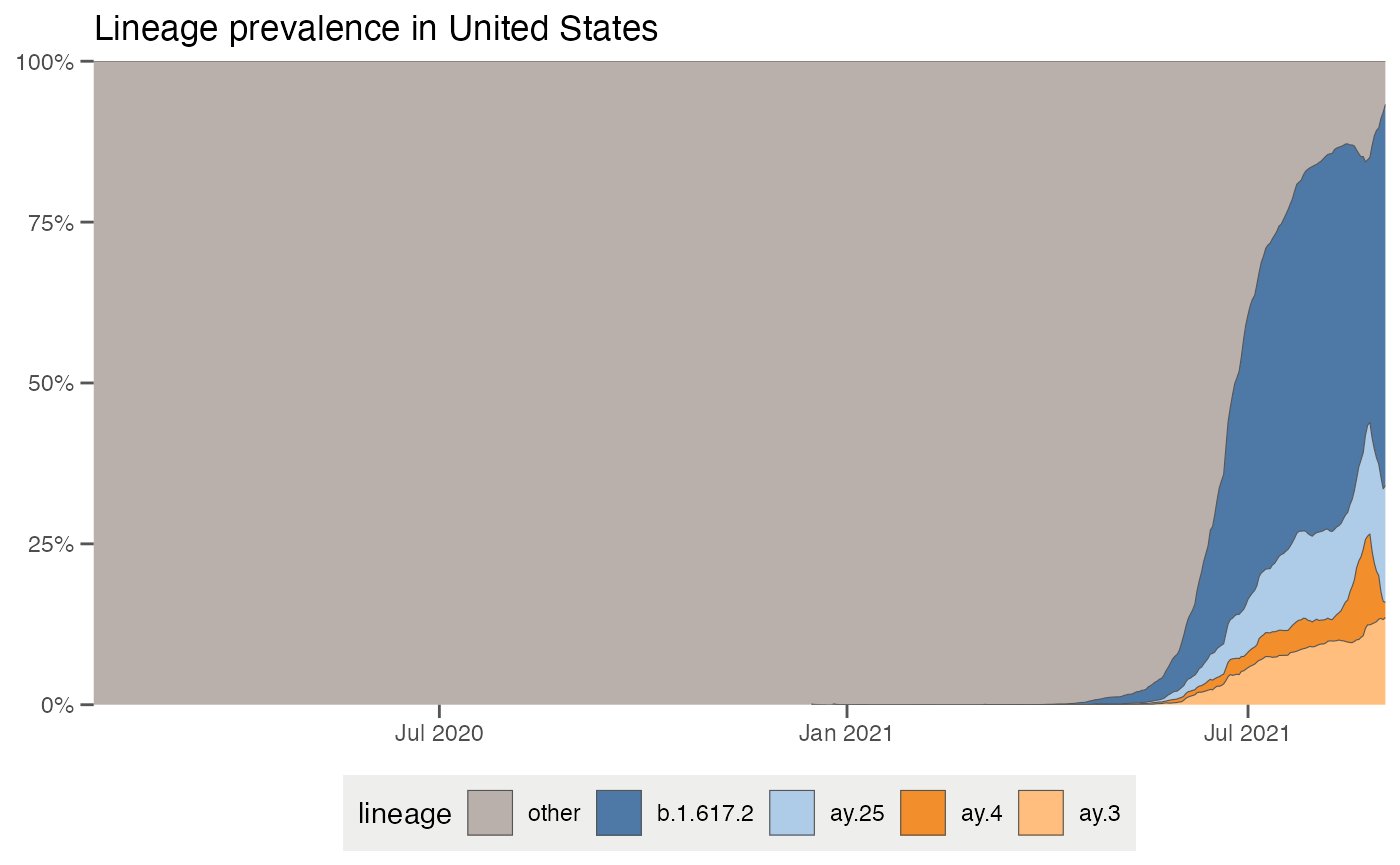
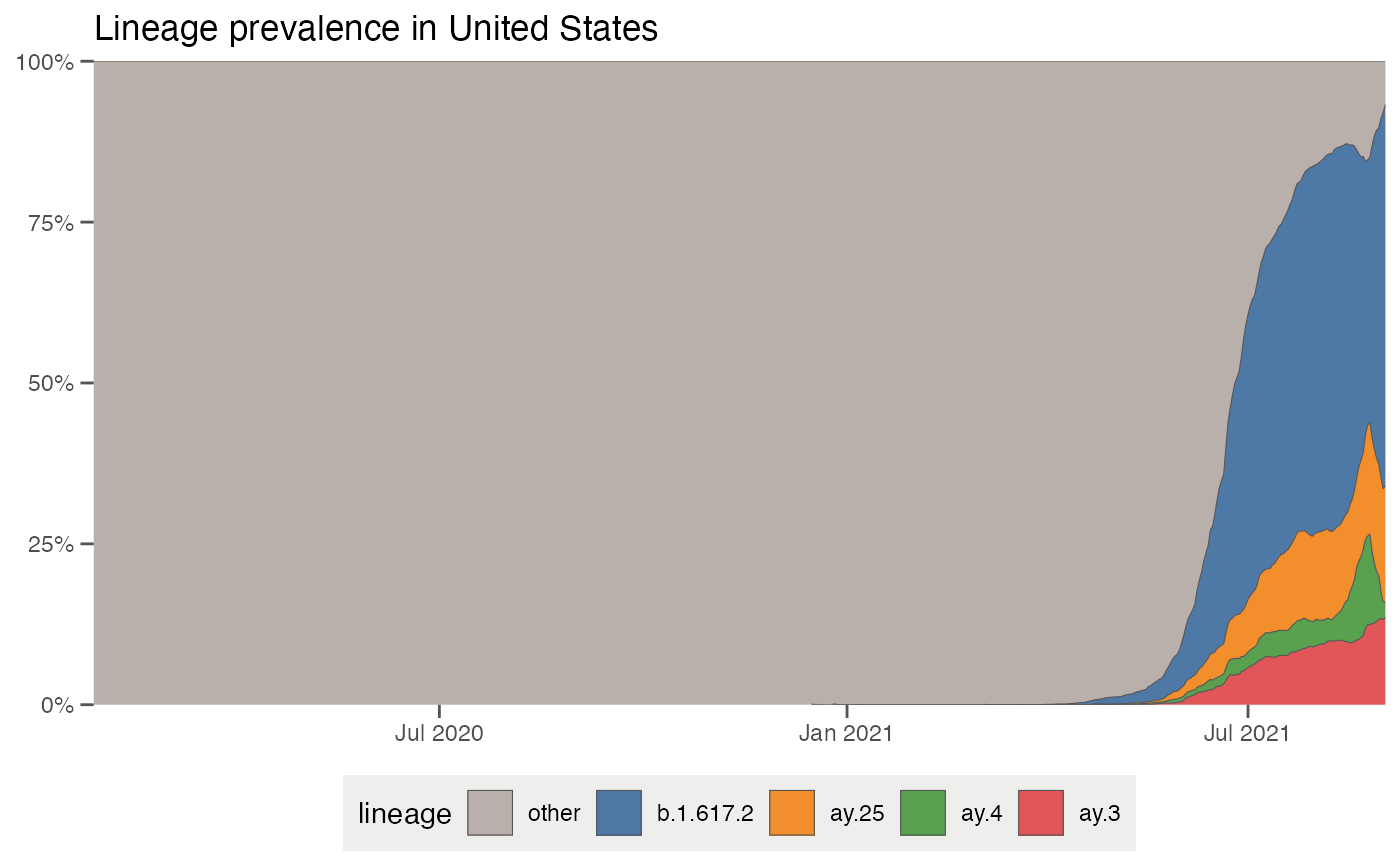
updated location vignette

diff --git a/docs/articles/locationtracker.html b/docs/articles/locationtracker.html
@@ -214,6 +214,27 @@
 <div id="comparing-the-prevalence-of-specific-lineages-within-a-location" class="section level3">
 <h3 class="hasAnchor">
 <a href="#comparing-the-prevalence-of-specific-lineages-within-a-location" class="anchor"></a>Comparing the prevalence of specific lineages within a location</h3>
+<p>To get a better idea of how uncertain the estimates of variant prevalence are, and also to look at the prevalence of variants that aren’t high in prevalence at the moment, we can calculate the prevalence of variants over time with a 95% confidence interval. To view how these data change, we can also use the plotting function <code>plot</code> to replicate the visualization on outbreak.info. Let’s look at the growth and decline of Alpha / B.1.1.7, Episilon / B.1.427 / B.1.429, Iota / B.1.526, and how Delta/B.1.617.2 overtakes them in the Spring of 2021:</p>
+<div class="sourceCode" id="cb11"><pre class="downlit sourceCode r">
+<code class="sourceCode R"><span class="co"># The WHO lineages are a base Pango lineage with all the sublineages of the main lineage.</span>
+<span class="co"># Using `lookupSublineages`, we can lookup all the sublineages associated with the WHO designated sequence, according to the most recent classifications from the Pango team.</span>
+<span class="va">alpha_lineages</span> <span class="op">=</span> <span class="fu"><a href="../reference/lookupSublineages.html">lookupSublineages</a></span><span class="op">(</span><span class="st">"Alpha"</span>, returnQueryString <span class="op">=</span> <span class="cn">TRUE</span><span class="op">)</span>
+<span class="va">epsilon_lineages</span> <span class="op">=</span> <span class="fu"><a href="../reference/lookupSublineages.html">lookupSublineages</a></span><span class="op">(</span><span class="st">"Epsilon"</span>, returnQueryString <span class="op">=</span> <span class="cn">TRUE</span><span class="op">)</span>
+<span class="va">iota_lineages</span> <span class="op">=</span> <span class="fu"><a href="../reference/lookupSublineages.html">lookupSublineages</a></span><span class="op">(</span><span class="st">"Iota"</span>, returnQueryString <span class="op">=</span> <span class="cn">TRUE</span><span class="op">)</span>
+<span class="va">delta_lineages</span> <span class="op">=</span> <span class="fu"><a href="../reference/lookupSublineages.html">lookupSublineages</a></span><span class="op">(</span><span class="st">"Delta"</span>, returnQueryString <span class="op">=</span> <span class="cn">TRUE</span><span class="op">)</span>
+<span class="co"># create a label dictionary to rename the lineages by their WHO name:</span>
+<span class="va">who_labels</span> <span class="op">=</span> <span class="fu"><a href="https://rdrr.io/r/base/c.html">c</a></span><span class="op">(</span><span class="st">"Alpha"</span>, <span class="st">"Epsilon"</span>, <span class="st">"Iota"</span>, <span class="st">"Delta"</span><span class="op">)</span>
+<span class="fu"><a href="https://rdrr.io/r/base/names.html">names</a></span><span class="op">(</span><span class="va">who_labels</span><span class="op">)</span> <span class="op">=</span> <span class="fu"><a href="https://rdrr.io/r/base/c.html">c</a></span><span class="op">(</span><span class="va">alpha_lineages</span>, <span class="va">epsilon_lineages</span>, <span class="va">iota_lineages</span>, <span class="va">delta_lineages</span><span class="op">)</span>
+
+<span class="va">who_prevalence</span> <span class="op">=</span> <span class="fu"><a href="../reference/getPrevalenceByLocation.html">getPrevalenceByLocation</a></span><span class="op">(</span>pangolin_lineage <span class="op">=</span> <span class="fu"><a href="https://rdrr.io/r/base/c.html">c</a></span><span class="op">(</span><span class="va">alpha_lineages</span>, <span class="va">epsilon_lineages</span>, <span class="va">iota_lineages</span>, <span class="va">delta_lineages</span><span class="op">)</span>, location <span class="op">=</span> <span class="st">"United States"</span><span class="op">)</span></code></pre></div>
+<pre><code>## Retrieving data... 
+## Retrieving data...</code></pre>
+<div class="sourceCode" id="cb13"><pre class="downlit sourceCode r">
+<code class="sourceCode R"><span class="fu"><a href="../reference/plotPrevalenceByLocation.html">plotPrevalenceByLocation</a></span><span class="op">(</span>pangolin_lineage <span class="op">=</span> <span class="fu"><a href="https://rdrr.io/r/base/c.html">c</a></span><span class="op">(</span><span class="va">alpha_lineages</span>, <span class="va">epsilon_lineages</span>, <span class="va">iota_lineages</span>, <span class="va">delta_lineages</span><span class="op">)</span>, labelDictionary <span class="op">=</span> <span class="va">who_labels</span>, location <span class="op">=</span> <span class="st">"United States"</span><span class="op">)</span></code></pre></div>
+<pre><code>## Retrieving data... 
+## Retrieving data... 
+## Plotting data...</code></pre>
+<p><img src="locationtracker_files/figure-html/variant_overlay-1.png" width="700"></p>
 </div>
 <div id="what-mutations-are-contained-within-the-lineages-that-are-circulating-within-the-u-s-" class="section level3">
 <h3 class="hasAnchor">
